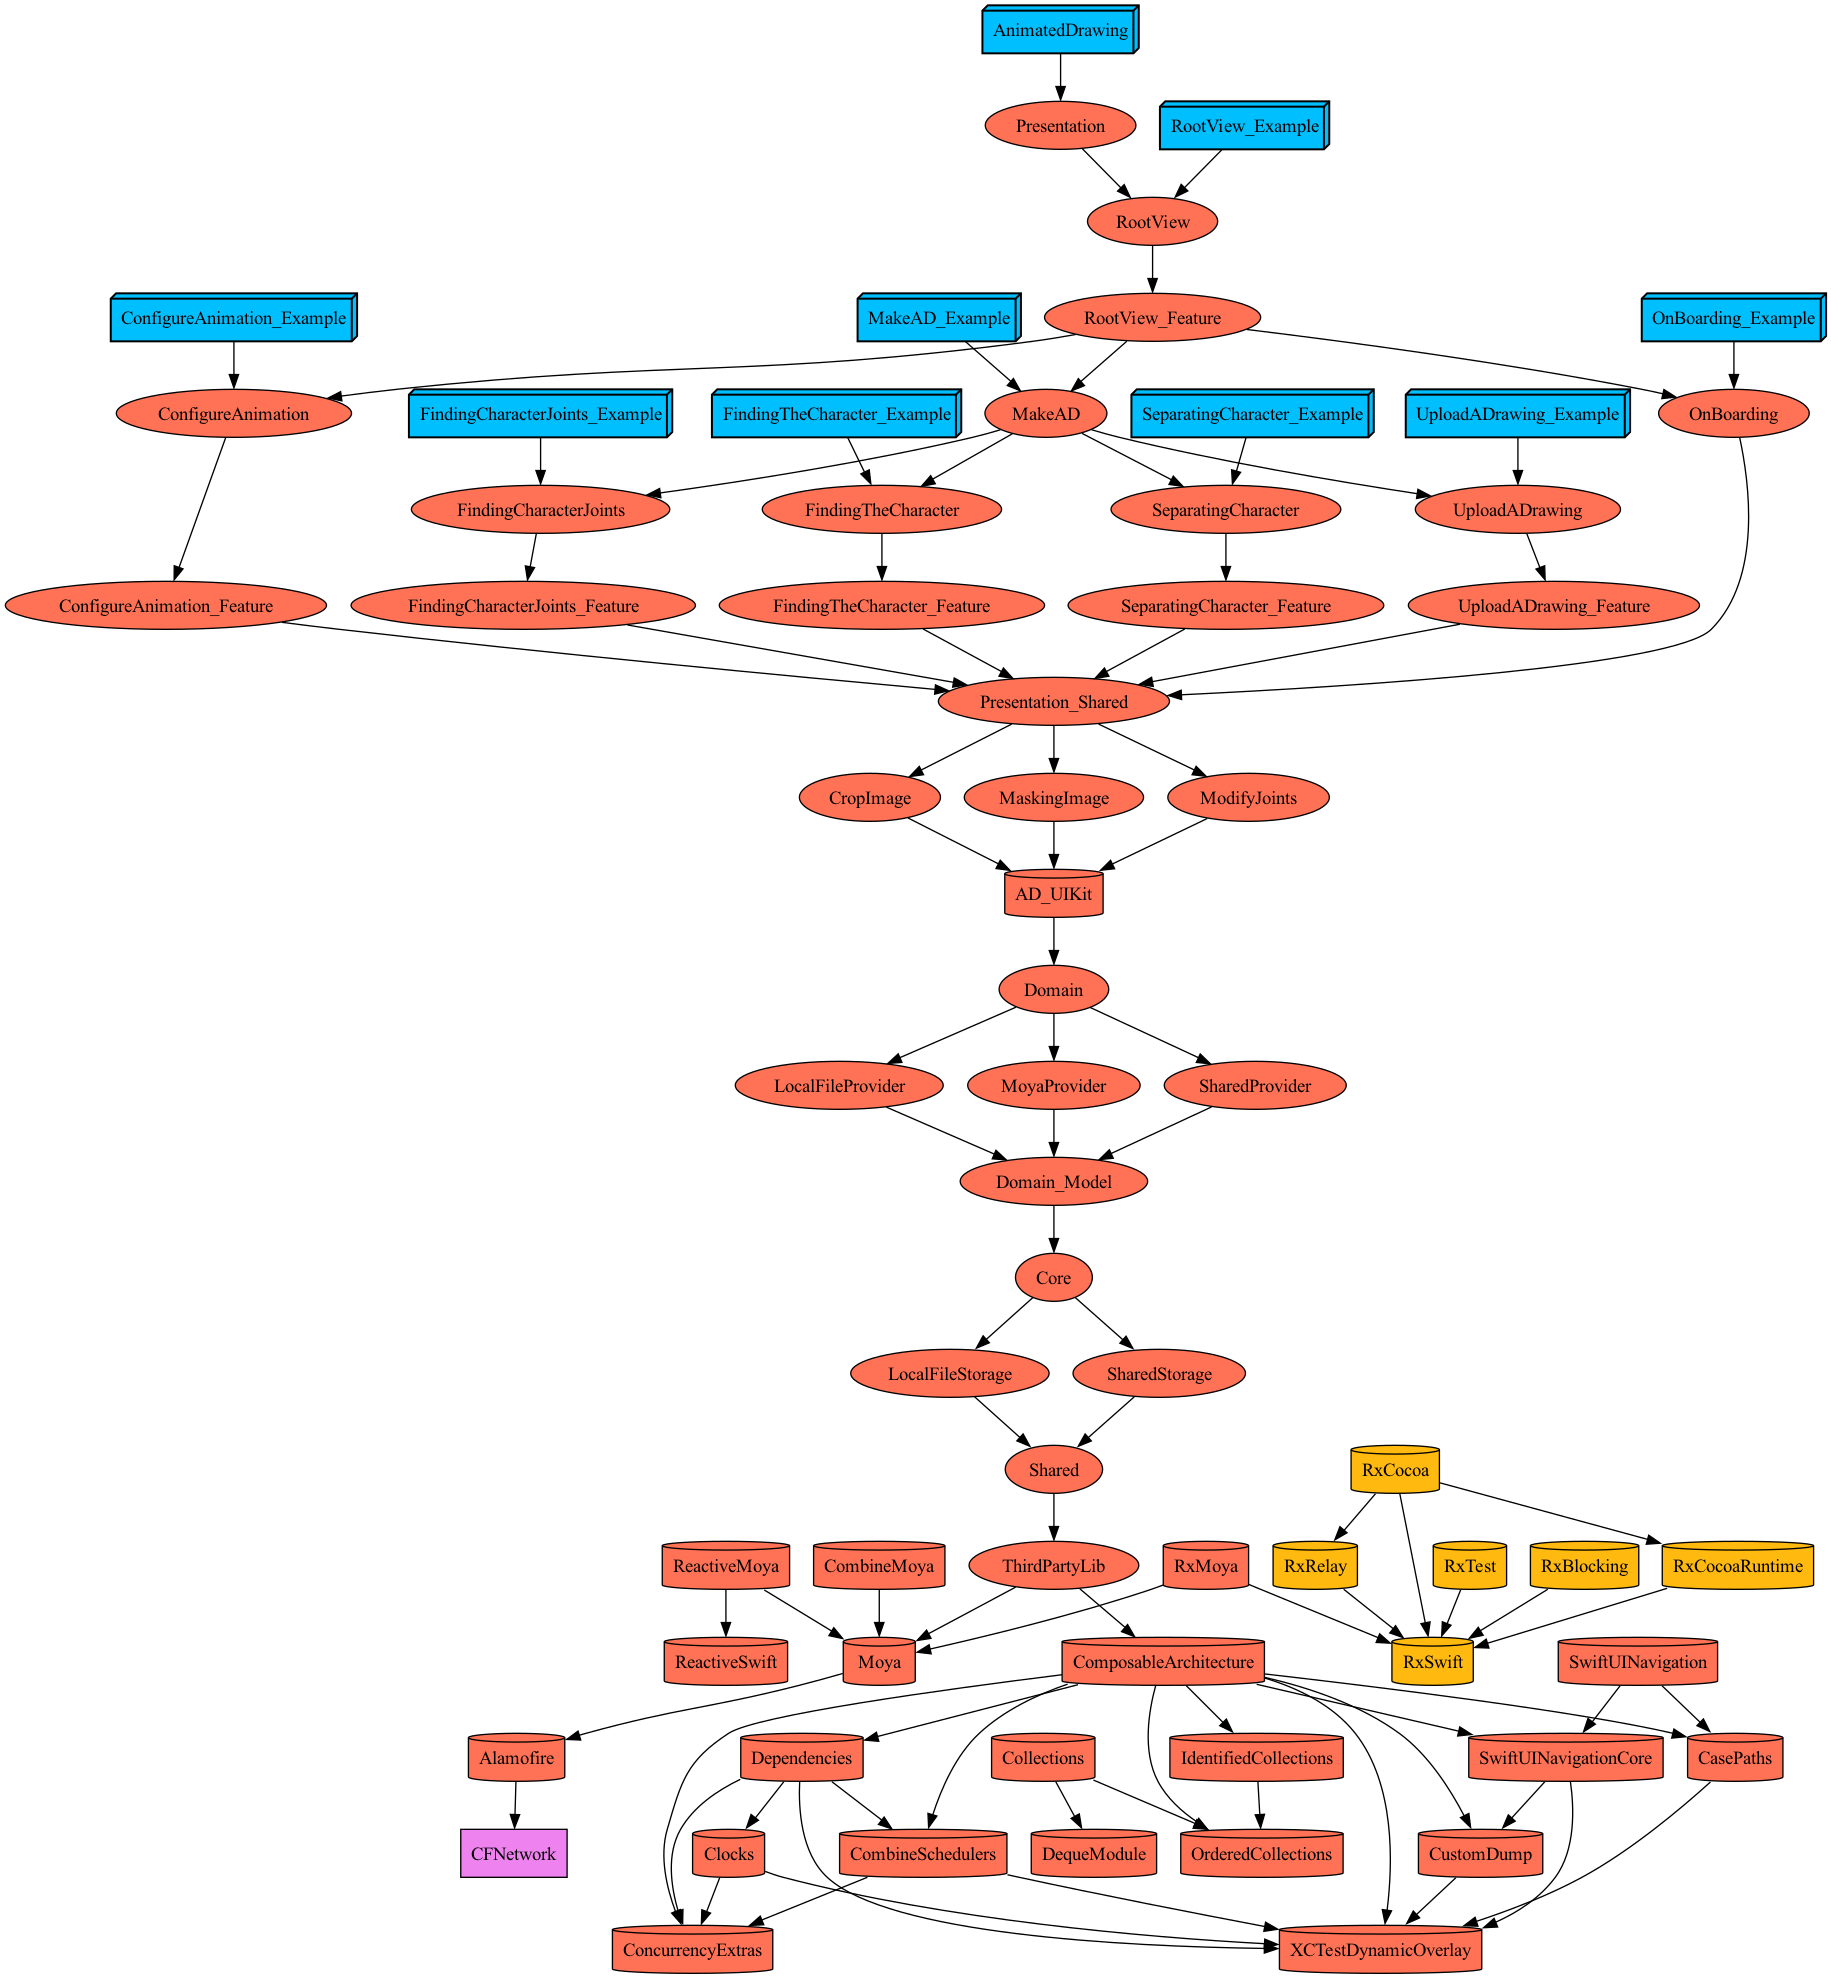
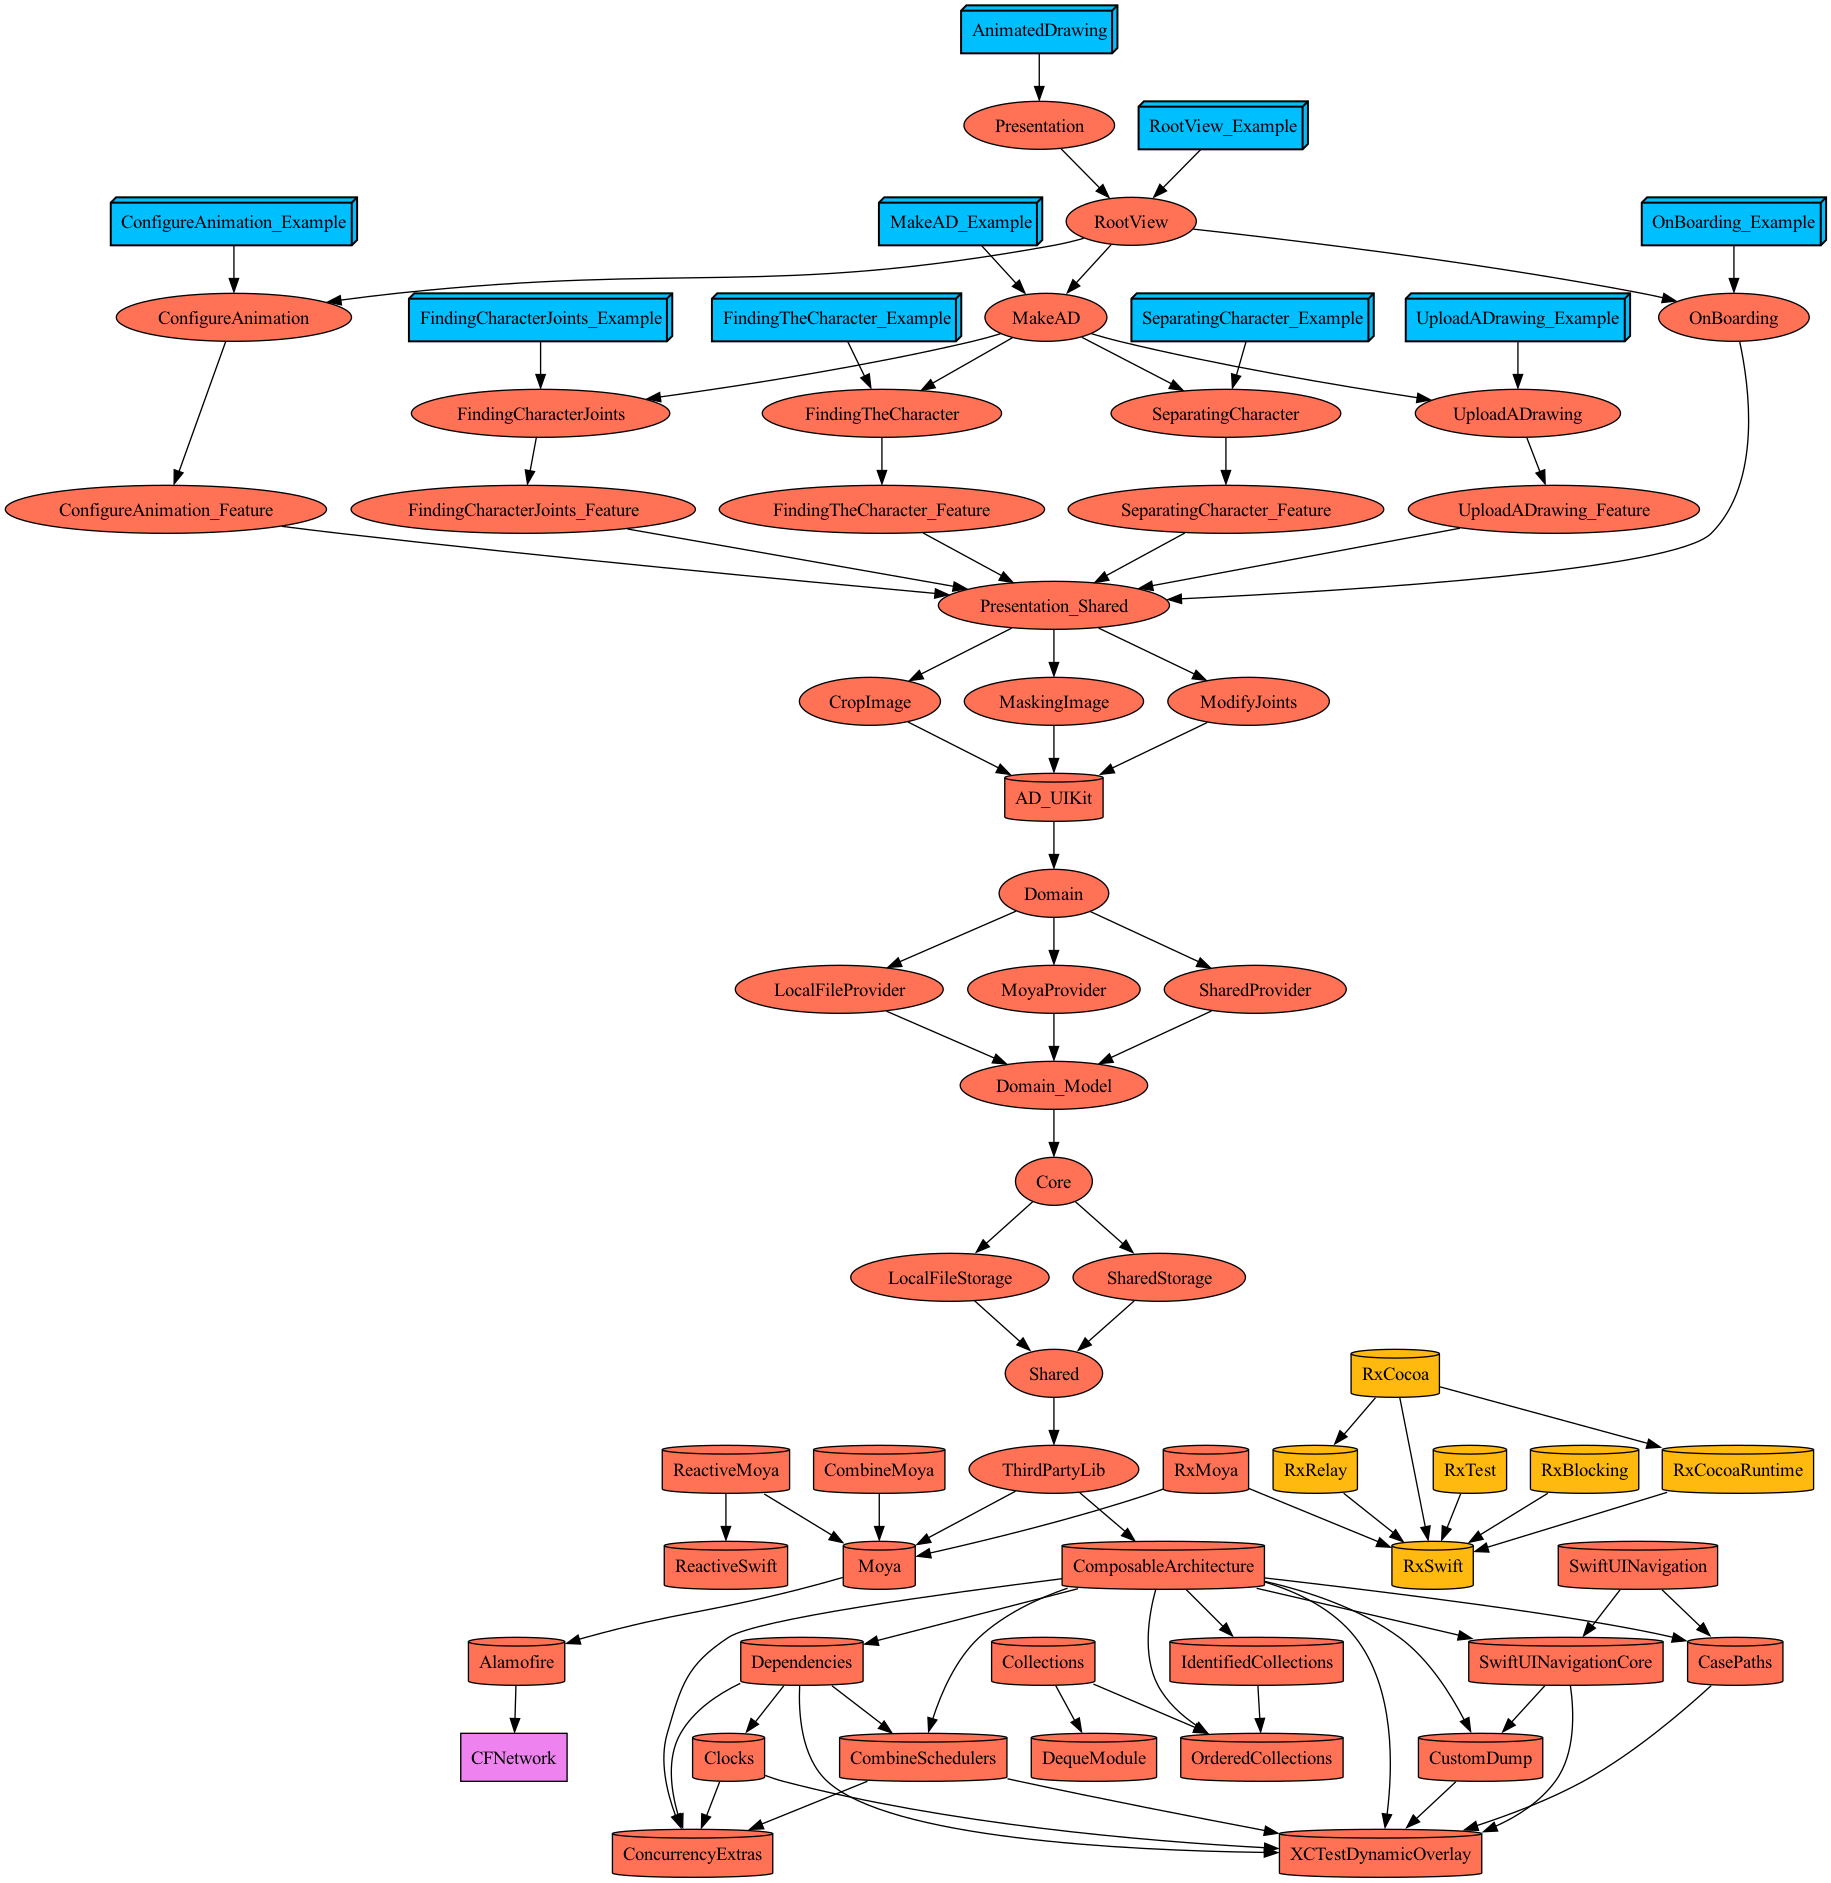
[Refactor] : ADViewCase 추가
Git : #66

Changed region(s): [[0.0, 0.0, 1.0, 1.0], [0.249, 0.8625, 0.3424, 0.9549]]

diff --git a/Projects/Presentation/RootView/View/RootView.swift b/Projects/Presentation/RootView/View/RootView.swift
@@ -10,40 +10,43 @@ import SwiftUI
 import OnBoarding
 import MakeAD
 import ConfigureAnimation
-import ThirdPartyLib
 import SharedProvider
-import RootView_Feature
+import Domain_Model
 
-public struct RootView: ADUI {
-  public typealias MyFeature = RootViewFeature
-  @StateObject var viewStore: MyViewStore
+let onBoardingViewController: UIHostingController<OnBoardingView> = .init(
+  rootView: OnBoardingView()
+)
+let makeADViewController: UIHostingController<MakeADView> = .init(
+  rootView: MakeADView()
+)
+let configureAnimationViewController: UIHostingController<ConfigureAnimationView> = .init(
+  rootView: ConfigureAnimationView()
+)
+
+public struct RootView: View {
+  public init() {}
   
-  public init(
-    viewStore: MyViewStore = .init(
-      Store(initialState: .init(), reducer: {
-        MyFeature()
-      }),
-      observe: { $0 }
-    )
-  ) {
-    self._viewStore = StateObject(wrappedValue: viewStore)
-  }
-  
-  @SharedValue(\.shared.makeAD.isShowConfigureAnimationView) var isShowConfigureAnimationView
-  
-  var switchValue: ADViewCase {
-    isShowConfigureAnimationView ? .ConfigureAnimation : .MakeAD
-  }
+  @SharedValue(\.shared.adViewCase) var adViewCase
   
   public var body: some View {
-    Group {
-      if !(viewStore.isTapStartButton) {
-        OnBoardingView(isTapStartButton: viewStore.$isTapStartButton)
-      } else {
-        SwitchView(switchValue: switchValue)
-          .ignoresSafeArea()
-      }
+    ZStack {
+      SwitchHostingView(
+        vc: onBoardingViewController,
+        switchValue: adViewCase,
+        mySwitchValue: ADViewCase.OnBoarding
+      )
+      SwitchHostingView(
+        vc: makeADViewController,
+        switchValue: adViewCase,
+        mySwitchValue: ADViewCase.MakeAD
+      )
+      SwitchHostingView(
+        vc: configureAnimationViewController,
+        switchValue: adViewCase,
+        mySwitchValue: ADViewCase.ConfigureAnimation
+      )
     }
+    .ignoresSafeArea()
   }
 }
 

diff --git a/Projects/Presentation/RootView/View/SwitchView.swift b/Projects/Presentation/RootView/View/SwitchView.swift
@@ -7,8 +7,6 @@
 //
 
 import SwiftUI
-import MakeAD
-import ConfigureAnimation
 
 struct SwitchHostingUIView<H: View, S: Equatable>: UIViewControllerRepresentable {
   typealias UIViewControllerType = UIViewController
@@ -54,40 +52,5 @@ struct SwitchHostingView<H: View, S: Equatable>: View {
   var body: some View {
     SwitchHostingUIView(vc: vc, switchValue: switchValue, mySwitchValue: mySwitchValue)
       .disabled(switchValue != mySwitchValue)
-  }
-}
-
-enum ADViewCase: Equatable {
-  case MakeAD
-  case ConfigureAnimation
-}
-
-let makeADViewController: UIHostingController<MakeADView> = .init(
-  rootView: MakeADView()
-)
-let configureAnimationViewController: UIHostingController<ConfigureAnimationView> = .init(
-  rootView: ConfigureAnimationView()
-)
-
-struct SwitchView: View {
-  let switchValue: ADViewCase
-  
-  init(switchValue: ADViewCase) {
-    self.switchValue = switchValue
-  }
-  
-  var body: some View {
-    ZStack {
-      SwitchHostingView(
-        vc: makeADViewController,
-        switchValue: switchValue,
-        mySwitchValue: ADViewCase.MakeAD
-      )
-      SwitchHostingView(
-        vc: configureAnimationViewController,
-        switchValue: switchValue,
-        mySwitchValue: ADViewCase.ConfigureAnimation
-      )
-    }
   }
 }

diff --git a/Projects/Presentation/OnBoarding/View/OnBoardingView.swift b/Projects/Presentation/OnBoarding/View/OnBoardingView.swift
@@ -7,13 +7,12 @@
 
 import SwiftUI
 import AD_UIKit
+import SharedProvider
 
 public struct OnBoardingView: View {
-  @Binding var isTapStartButton: Bool
+  @SharedValue(\.shared.adViewCase) var adViewCase
   
-  public init(isTapStartButton: Binding<Bool>) {
-    self._isTapStartButton = isTapStartButton
-  }
+  public init() {}
   
   public var body: some View {
     VStack {
@@ -25,11 +24,7 @@ public struct OnBoardingView: View {
       
       Spacer()
       
-      StartButton {
-        if isTapStartButton == false {
-          isTapStartButton = true
-        }
-      }
+      StartButton { adViewCase = .MakeAD }
     }
     .padding()
     .padding(.vertical)
@@ -127,16 +122,8 @@ private extension OnBoardingView {
 
 // MARK: - Previews_OnBoardingView
 
-struct Previews_OnBoardingView: View {
-  @State var isTapStartButton: Bool = false
-  
-  var body: some View {
-    OnBoardingView(isTapStartButton: $isTapStartButton)
-  }
-}
-
 struct OnBoardingView_Previews: PreviewProvider {
   static var previews: some View {
-    Previews_OnBoardingView()
+    OnBoardingView()
   }
 }

diff --git a/Projects/Presentation/ConfigureAnimation/Feature/ConfigureAnimationFeature.swift b/Projects/Presentation/ConfigureAnimation/Feature/ConfigureAnimationFeature.swift
@@ -18,6 +18,7 @@ public struct ConfigureAnimationFeature: Reducer {
   @Dependency(\.configureAnimationClient) var configureAnimationClient
   @Dependency(\.shared.stepBar) var stepBar
   @Dependency(\.shared.makeAD) var makeAD
+  @Dependency(\.shared.adViewCase) var adViewCase
   
   public init() {}
   
@@ -87,7 +88,7 @@ extension ConfigureAnimationFeature {
         
       case .fixMakeAD:
         return .run { _ in
-          await makeAD.isShowConfigureAnimationView.set(false)
+          await adViewCase.set(.MakeAD)
         }
         
       case .toggleIsShowAnimationListView:
@@ -252,7 +253,7 @@ extension ConfigureAnimationFeature {
           await makeAD.croppedImage.set(nil)
           await makeAD.maskedImage.set(nil)
           await makeAD.jointsDTO.set(nil)
-          await makeAD.isShowConfigureAnimationView.set(false)
+          await adViewCase.set(.MakeAD)
           
           await stepBar.completeStep.set(.None)
           await stepBar.currentStep.set(.UploadADrawing)

diff --git a/Projects/Presentation/FindingTheCharacter/Feature/FindingTheCharacterFeature.swift b/Projects/Presentation/FindingTheCharacter/Feature/FindingTheCharacterFeature.swift
@@ -50,9 +50,6 @@ public struct FindingTheCharacterFeature: Reducer {
     
     case alertShared(PresentationAction<AlertShared>)
     case showAlertShared(AlertState<AlertShared>)
-    
-    case initCheckList
-    case isCorrectStep
   }
   
   public var body: some Reducer<State, Action> {
@@ -167,20 +164,6 @@ extension FindingTheCharacterFeature {
       case .showAlertShared(let alertState):
         state.alertShared = alertState
         return .none
-        
-        
-      case .initCheckList:
-        state.checkState = false
-        return .none
-        
-      case .isCorrectStep:
-        return .run { send in
-          let completeStep = await stepBar.completeStep.get()
-          let isCorrectStep = Step.isCorrectStep(myStep: .UploadADrawing, completeStep: completeStep)
-          if !isCorrectStep {
-            await send(.initCheckList)
-          }
-        }
       }
     }
   }

diff --git a/Projects/Presentation/FindingCharacterJoints/Feature/FindingCharacterJointsFeature.swift b/Projects/Presentation/FindingCharacterJoints/Feature/FindingCharacterJointsFeature.swift
@@ -17,6 +17,7 @@ public struct FindingCharacterJointsFeature: Reducer {
   @Dependency(\.makeADClient) var makeADClient
   @Dependency(\.shared.makeAD) var makeAD
   @Dependency(\.shared.stepBar) var stepBar
+  @Dependency(\.shared.adViewCase) var adViewCase
   
   public struct State: Equatable {
     public init() {}
@@ -110,7 +111,7 @@ extension FindingCharacterJointsFeature {
           state.isSuccessFindCharacterJoints = false
           return .run { _ in
             await stepBar.completeStep.set(.FindingCharacterJoints)
-            await makeAD.isShowConfigureAnimationView.set(true)
+            await adViewCase.set(.ConfigureAnimation)
           }
         }
         return .none

diff --git a/Projects/Domain/SharedProvider/Sources/SharedProvider.swift b/Projects/Domain/SharedProvider/Sources/SharedProvider.swift
@@ -15,6 +15,7 @@ import ComposableArchitecture
 public struct Shared {
   public let makeAD = Self.MakeAD()
   public let stepBar = Self.StepBar()
+  public let adViewCase = CombineNotifier<ADViewCase>(initialValue: .OnBoarding)
 }
 
 public extension Shared {
@@ -32,7 +33,6 @@ public extension Shared {
     public let croppedImage = CombineNotifier<UIImage?>(initialValue: nil)
     public let maskedImage = CombineNotifier<UIImage?>(initialValue: nil)
     public let jointsDTO = CombineNotifier<JointsDTO?>(initialValue: nil)
-    public let isShowConfigureAnimationView = CombineNotifier<Bool>(initialValue: false)
   }
 }
 

diff --git a/Projects/Presentation/AD_UIKit/Sources/ReusableUI/CheckList/CheckList.swift b/Projects/Presentation/AD_UIKit/Sources/ReusableUI/CheckList/CheckList.swift
@@ -15,7 +15,7 @@ public struct CheckList<C: View>: View {
   let myStep: Step
   @SharedValue(\.shared.stepBar.completeStep) var completeStep
   var isCorrectStep: Bool {
-    Step.isCorrectStep(myStep: myStep, completeStep: completeStep)
+    myStep.rawValue <= completeStep.rawValue + 1
   }
   
   let title = "C H E C K L I S T"

diff --git a/Projects/Domain/Domain_Model/Sources/Entity/ADViewCase.swift b/Projects/Domain/Domain_Model/Sources/Entity/ADViewCase.swift
@@ -1,0 +1,15 @@
+//
+//  ADViewCase.swift
+//  Domain_Model
+//
+//  Created by minii on 2023/10/09.
+//  Copyright © 2023 chminipark. All rights reserved.
+//
+
+import Foundation
+
+public enum ADViewCase: Equatable {
+  case OnBoarding
+  case MakeAD
+  case ConfigureAnimation
+}

diff --git a/Projects/Presentation/RootView/Project.swift b/Projects/Presentation/RootView/Project.swift
@@ -5,8 +5,7 @@ let project: Project = .makeProject(
   name: RootView.projectName,
   targets: [
     RootView.example(),
-    RootView.view(),
-    RootView.feature(
+    RootView.view(
       dependencies: [
         OnBoarding.projectDepedency,
         MakeAD.projectDepedency,
